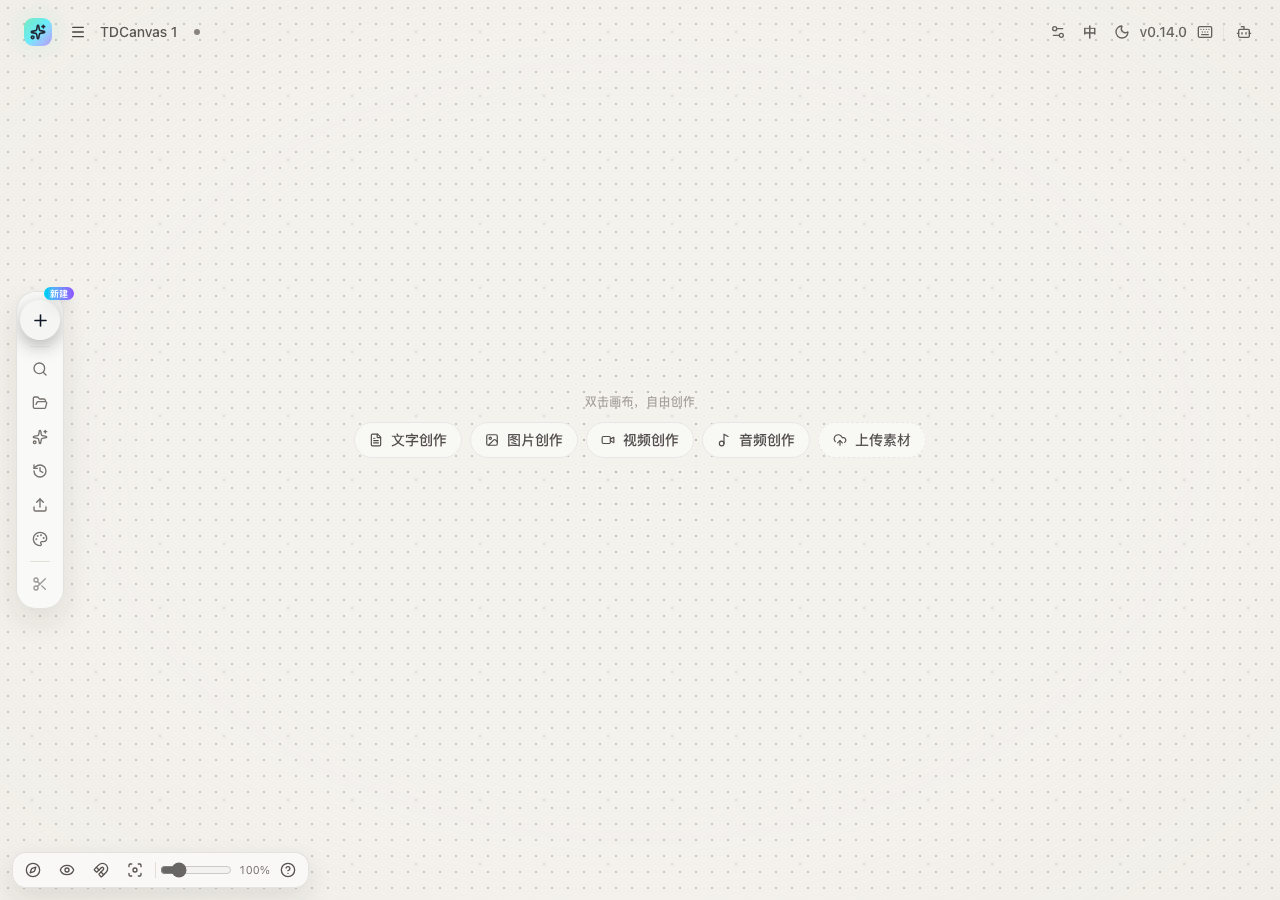
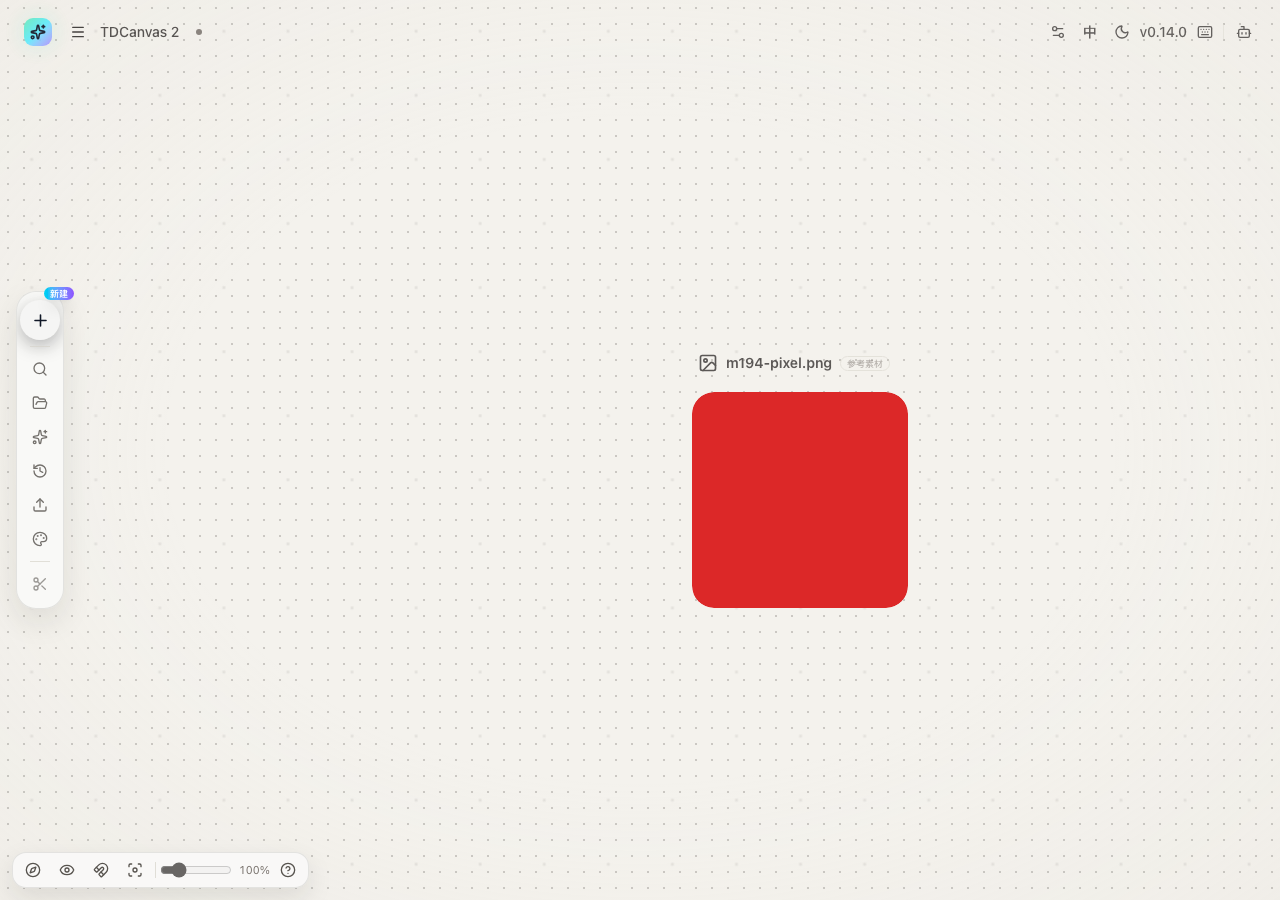
docs(user-manual): Batch 224 — 把最后 19 张 alt 核完，112 张全部核过
核完剩余 19 张纯描述型 alt。至此 112 张 alt 全部核过一遍
（M1-M209 的 84 张 + M223 的 9 张 + 本批 19 张）。
结果：15 张全对，4 张抓到错，否证 3 次（第 149、150、151 次）。

三条新 R

R73（wording）靠「同一份清单自己跟自己矛盾」撞出来的大小写。
09-generate-images-panel 的 step 与 verified_locator 把参数行记成大写
参数 1K/2K，而同一份 manifest 里同题材的另外两张写的是小写。
不能靠看图定案：参数行放大到 20 倍仍分辨不出 k 与 K，那面板在 1280x720
里只占约 350px 宽，源像素就这么多。放大后再读解决的是看得清，解决不了
分辨率不够。决定性读数来自源码 aitudou-aspect-dimensions.ts:14。
★ 本批最值钱的一条纪律：这个串在另一个地方是大写、而且是对的——本地
「放大」的目标长边档位就是 1K。全手册 13 次出现里只有 3 次是同一事实且
都错，另 3 次是 upscale 那个事实、大写是对的、一处没动。按 grep 到就全改
做，会把 3 处本来正确的地方改错。所以 needle 取带「参数」二字的更长形态。

R74（wording）图注描述了图上根本没有的东西。
organize-canvas.md:177 的图注写了图上并不存在的节点，而那张图是空白
画布——只有五个创作芯片，一个节点也没有。
★ 撞出来的是同一张图内部打架：这张图自己的 alt 与 verified_locator 都写
的是「五个创作芯片」，只有正文图注说有节点。如果只核 alt，这一条会一路
核成「全对」——alt 本身确实是对的。
按既定原则走重拍：先普查 5 张画布布局，凡 2 个以上节点的全堆叠重叠，只有
TDCanvas 2 单节点、零重叠，不动任何节点数据就拍到干净构图。已核验主题与
节点坐标逐字还原。
★ 顺带补上一份此前完全缺失的证据：原文「节点与面板转白底深字」面板侧有图、
节点侧一直没有图。这次实测到节点文字色 rgb(41, 37, 36)、内层描边
rgb(214, 211, 202)，两端至此都有据。

R75（wording）把真功能错说成面板里的开关项。
20-reference.md:291 的图注把面板上没有的一项写了进去、把真有的另一项漏了。
三条独立读数：图上只有四组；i18n 全库「辅助线」0 次命中；姊妹条目（浅色主题
下的同一面板）同样四组。
★ 关键在对齐辅助线是真功能（拖动时出现、阈值约 7 屏幕像素），错的只是把它
当成面板里能点的开关。照字面修成「面板没有辅助线功能」，就是把一条真功能
写没了，比原错更坏，所以只改图注与设置表下的说明。

三次否证

第 149 次：图上下拉截断为 Doubao seed audi…，一度以为 alt 写全称是吹牛——
源码 aitudou-models.ts:260 的 id 就是 doubao-seed-audio-1.0，合规。
第 150 次：把小地图里那块绿色误读成视口框，放大 4 倍后才看清视口框确是白色
描边，清单正确。
第 151 次（★ 本批最典型的先怀疑判据）：侧边面板清单记着 278x600，量到外层
aside 是 280x652，一度判清单错。实测把清单判成对的：往上第 2 层是
[…]

diff --git a/docs/user-manual/tdcanvas-canvas/scripts/check-retractions.py b/docs/user-manual/tdcanvas-canvas/scripts/check-retractions.py
@@ -920,6 +920,78 @@ RETRACTIONS: list[dict[str, str]] = [
                      #   **新内容也要守同一条**，所以照 R70 的先例登记豁免，而不是改措辞绕开。
                      "task-inventory.yml#`20-nav-bilingual.png`"],
     },
+    # ★ M224：靠**同一份清单里两处写法不一致**撞出来的，不是靠怀疑。
+    #   而修它之前必须先答一个问题：这个串是不是另一个事实？
+    {
+        "id": "R73",
+        "kind": "wording",
+        "wrong": "参数 1K/2K",
+        "why": "**图生图「参数」行的分辨率档位，界面是小写的 1k/2k。**\n"
+               "`09-generate-images-panel` 的 step 与 verified_locator 两处都写成了大写 K，"
+               "而**同一份清单里同题材的另外两张**（`09-generate-images-panel-full`、"
+               "`30-concepts-reference-mention-inserted`）写的是小写——**是这两处自相矛盾撞出来的**。\n"
+               "**为什么不能靠看图定案**：把参数行裁出来放大到 20 倍**仍然分辨不出 k 与 K**，"
+               "因为那张图的面板在 1280x720 画布里只占约 350px 宽，**源像素就这么多、再放大也变不出来**。"
+               "★ 所以「放大后再读」那条纪律解决的是「看得清」，**它解决不了「分辨率不够」**。\n"
+               "**决定性读数来自源码**：`web/src/components/canvas/aitudou-aspect-dimensions.ts:14` "
+               "是 `AITUDOU_SEEDREAM_RESOLUTIONS = [\"1k\", \"2k\"]`。\n"
+               "★ **同一个串在另一个地方是大写、而且是对的**：本地「放大」的目标长边档位在 "
+               "`canvas-node-upscale-dialog.tsx:14` 与 `services/api/image.ts:120,226` 里就是 `\"1K\"`。"
+               "**所以 needle 取「参数 1K/2K」而不是「1K/2K」**——后者会连带命中 upscale 那三处"
+               "**本来正确**的大写，门禁会在正确的地方报红，"
+               "**一个把正确内容判成错的 needle 比没有 needle 更坏**。\n"
+               "**M224 已把同一事实的 3 处全改成小写**（manifest 的 step 与 verified_locator、"
+               "task-inventory 的 review_note），**upscale 那 3 处大写一处没动**。",
+        "fixed_in": "M224",
+        "allow_in": ["screenshots/manifest.yml#M224-R73"],
+    },
+    # ★ M224：靠**同一份清单里两处写法不一致**撞出来的，不是靠怀疑。
+    {
+        "id": "R74",
+        "kind": "wording",
+        "wrong": "白色节点与面板",
+        "why": "**`organize-canvas.md` 里浅色主题那张图的图注，描述了图上根本没有的东西。**\n"
+               "原图注写「浅色主题下的画布，浅米色点阵背景、白色节点与面板……」，"
+               "但那张图是**空白画布**——只有五个创作芯片，**一个节点都没有**。\n"
+               "★ **撞出来的是同一张图自己跟自己矛盾**：同一份 manifest 里这张图的 alt 与 "
+               "verified_locator 都写着「双击画布自由创作 与五个创作芯片」，"
+               "**只有正文图注说有节点**。两处对不上，才去把图打开看。\n"
+               "★ **按既定原则走的是重拍而不是改措辞**（证据与主张对不上时优先重拍）。"
+               "重拍前先普查了 5 张画布的节点布局：**凡 2 个以上节点的全堆叠重叠**"
+               "（TDCanvas 3/4/5 各重叠 1 对、TDCanvas 1 重叠 3 对），"
+               "**只有 TDCanvas 2 是单节点、零重叠**，不用改动任何节点数据就能拍出干净构图。\n"
+               "★ **顺带补上一份此前完全缺失的证据**：原文「节点与面板转白底深字」这句话，"
+               "**面板侧有图、节点侧一直没有图**。这次实测到节点文字色 `rgb(41, 37, 36)`、"
+               "节点内层描边 `rgb(214, 211, 202)`，**浅底深字这句话至此两端都有据**。\n"
+               "★ **过程中踩了两个坑，都记在 SOURCE_OBSERVATIONS F28-F31**："
+               "① 两个节点中心完全重合时，**按 id 选中的目标不等于鼠标实际点到的那个**，"
+               "拖错了节点；② 浅色判据要查根节点 `tdcanvas-light`，**不是查 `<html>` 的 class**。\n"
+               "★ 拍摄后已核验主题与节点坐标**逐字还原**。",
+        "fixed_in": "M224",
+        "allow_in": ["screenshots/manifest.yml#M224-R74"],
+    },
+    # ★ M224：把一个**真功能**错说成**面板里的一个开关项**，比「漏写一项」更坏。
+    {
+        "id": "R75",
+        "kind": "wording",
+        "wrong": "网格与对齐辅助线",
+        "why": "**`20-reference.md` 那张外观面板的图注，把面板没有的一项写了进去、"
+               "把面板真有的另一项漏在外面。**\n"
+               "原图注写「画布外观面板：输入模式、主题、网格与对齐辅助线」，"
+               "但面板上**只有四组**：画布输入模式 / 主题模式 / 网格样式 / 图片信息——"
+               "**没有对齐辅助线，反而漏了确实存在的图片信息**。\n"
+               "三条独立读数：① 图上数得出来只有四组；② i18n 全库 `辅助线` **0 次命中**；"
+               "③ 姊妹条目 `04-organize-canvas-appearance-light.png`（浅色主题下的同一面板）同样只有四组。\n"
+               "★ **关键区分——这件事很容易改错方向**：对齐辅助线**是真功能**"
+               "（拖动时出现、阈值约 7 屏幕像素，见 `organize-canvas.md:189`），"
+               "**错的只是把它当成面板里可以点的开关**。"
+               "如果照字面去「修」成「面板没有辅助线功能」，就是把一条真功能写没了——"
+               "**比原错更坏**。\n"
+               "★ 顺带在设置表下面补了一句，明确后两行（网格吸附、对齐辅助线）**都不在面板上**，"
+               "免得读者照着图注去面板里找。",
+        "fixed_in": "M224",
+        "allow_in": ["screenshots/manifest.yml#M224-R75"],
+    },
 ]
 
 

diff --git a/docs/user-manual/tdcanvas-canvas/AUDIT.md b/docs/user-manual/tdcanvas-canvas/AUDIT.md
@@ -779,3 +779,13 @@
 | **Major(工具自身)** | **★ `viewport` 是一词三义的字段，而二十三道门禁没有一道核对它与图片实物** | 全库普查：逐个读 PNG 头 IHDR 拿真实宽高，与 manifest 里 `viewport` 开头的 `NxM` 对照，**112 张里 26 张对不上** | **但 26 张不是 26 个错**——这个字段混着三种含义：① 浏览器视口；② **裁剪区**（`16-use-agent-skills` 实物 454×950 而登记是视口 `1440x950`）；③ **设备像素**（`30-concepts-reference-unused` 实物 2880×1800 = 视口 2 倍）。**只有 6 条在字段里自述了「裁剪区 / deviceScaleFactor」并精确对账**，另 19 条既没对账也没说明它是哪一种。★ **缺口本身比这 26 条更值得记**：`viewport` 是**唯一**能判断「这张图是整屏还是裁剪件、是不是高 DPI」的字段，可 `check-render.py` 只查 img 异常、`check-inventory-freshness.py` 只数条目数——**一个被所有人依赖的字段，没有任何机制保证它没写错**。**下一步（未做）**：做成第 24 道门禁，判据取「字段里若给出可算断言则必须与实物对账」，**要窄到能在现有 112 条上全过** |
 | **第 148 次否证** | **否掉「alt 里的『鼠标锚』是在声称图上看得见的指针」** | `navigate-canvas.md:59` 的图注写「滚轮缩放（54%→85%，鼠标锚）」，**而图上找不到任何鼠标指针**——第一反应是「alt 声称了图上没有的东西」，按 R66 该判错 | **放大 6 倍后才看清**：那个白色小圆是**空心圆环 + 一根接上去的白色连线**，是**连接端口**（指针是实心箭头）——**所以 alt 根本没声称图上有指针**。**决定性依据在账本里**：`SOURCE_OBSERVATIONS.md:48` 早就立过约定「**wheel 永远缩放（5%–500%，鼠标锚）；缩放滑杆 5–500%（视口中心锚）**」，「鼠标锚」说的是**缩放锚点的选取方式**。★ **判据补一句**：读 alt 先分清「**图上看得见的东西**」与「**这张图演示的机制**」——本批 9 张全对的 alt 里有 3 处带「鼠标」字样，全是描述交互状态而非可见光标；**同页 `03-connect-node-ports` 写「这张图鼠标不在节点上」，同样是靠「工具条没挂载」这个可见反证推出来的** |
 | **Major(流程)** | **★ 会话摘要里的图名有 9 个是编的——而「已核 84 张」这个进度数就建在它上面** | 规划 M223 时，我按摘要里记的「M221 已核 6 张 + M222 已核 4 张」去减待核清单，**10 个名字里只有 1 个能对上**。逐个查证：这 9 个名字**在 manifest、磁盘、正文里各 0 处**，**根本不存在** | **三条读数把它钉死**：① `ls screenshots/` 列不出这些文件；② `grep -c <名字> screenshots/manifest.yml` 全为 0；③ 正文 `*.md` 里也 0 处。**而数目（28 张 / 34 遍）是对的**——错的只是名字，**因为我是照着「六张资产弹窗相关的图」这种描述反推文件名，而不是从清单里查**。★ **改法**：回到 `PROGRESS.md` 的 M221/M222 段**读原表**，把真名单抄出来（`02-navigate-canvas-top-menu`、`90-troubleshooting-cover-placeholder` 等），再用它做集合运算。★ **可复用的判据**：**二手的进度账本不可信，进度数字必须能对着三方（磁盘 / 清单 / 正文）复算**——`grep 不到 ≠ 不存在` 的反面在这里成立：**`grep 得到` 也不等于它存在**，**编出来的名字一样能通过一次 grep**，只有**逐个查存在性**才能拆穿 |
+| **Major(手册自身)** | **★ 浅色主题那张图的图注，描述了图上根本没有的东西——而且这张图自己跟自己就矛盾** | `organize-canvas.md:177` 的图注写「浅米色点阵背景、**白色节点与面板**」，但 `01-create-canvas-project-light-canvas.png` 是**空白画布**：只有五个创作芯片，一个节点也没有 | ★ **撞出来的是同一张图内部打架**：同一份 manifest 里这张图的 `alt` 与 `verified_locator` 都写着「双击画布自由创作 与五个创作芯片」，**只有正文图注说有节点**。**两处对不上才去把图打开——如果只核 alt，这一条会一路核成「全对」**（alt 本身确实是对的）。★ 按既定原则走重拍：先普查 5 张画布布局，**凡 2 个以上节点的全堆叠重叠**（3/4/5 各 1 对、1 有 3 对），**只有 TDCanvas 2 单节点零重叠**，不动任何节点数据就拍到干净构图。**R74** |
+| **Major(证据升级)** | **「节点转白底深字」这句话，节点侧一直没有图——这次补上了实测读数** | 原文只说「节点与面板转白底深字」，但面板侧有 `14-manage-assets-light` 与 `04-organize-canvas-appearance-light` 佐证，**节点侧一张图都没有** | ★ 重拍时顺带实测：**节点文字色 `rgb(41, 37, 36)`、节点内层描边 `rgb(214, 211, 202)`**（DPR=1）。**浅底深字这句话至此两端都有据**，正文已把这组读数补进 `organize-canvas.md:179` |
+| **Major(手册自身)** | **把一个**真功能**错说成**面板里的一个开关项**，比「漏写一项」更容易改错方向** | `20-reference.md:291` 图注写「画布外观面板：输入模式、主题、网格与对齐辅助线」，面板上**没有辅助线**、**漏了确实存在的图片信息** | 三条独立读数：图上只有四组；i18n 全库 `辅助线` **0 次命中**；姊妹条目 `04-organize-canvas-appearance-light` 同样四组。★ **关键是对齐辅助线是真功能**（拖动出现、阈值 7 屏幕像素）——**照字面「修」成「面板没有辅助线功能」就把真功能写没了，比原错更坏**，所以只改图注与设置表下的说明。**R75** |
+| **第 149 次否证** | **否掉「正文写全称是错」** | `09-generate-images-audio-panel` 图上下拉被截断成 `Doubao seed audi…`，而 alt 写全称「Doubao seed audio 1.0」，一度被当成图注吹牛 | 源码 `aitudou-models.ts:260` 的 id 就是 `doubao-seed-audio-1.0`、`aitudou-pricing.ts:412` 连措辞都是「约 ¥0.004/秒」，正文两张表也写全称，**合规** |
+| **第 150 次否证** | **否掉「小地图上的绿色块是视口框」** | `02-navigate-canvas-minimap-nav` 的 alt 写白色视口框，而小地图里那块是绿的（实测平均 RGB 44,151,112） | 放大 4 倍后看清**视口框确是白色描边**（右上 L 形白框），绿色那块是节点。**清单正确** |
+| **第 151 次否证** | **否掉「`verified_locator` 里的 `278x600` 写错了」** | 从搜索框往上量到的外层是 `aside.td-canvas-side-panel` **280x652**，与登记值 278x600 对不上，一度判清单错 | ★ **从搜索框往上第 2 层是 `div.flex.h-full.flex-col`，x=57 / y=107 / 278x600，DPR=1，与登记值逐位相同**；而清单自己的 `verified_locator` 末尾就写着 `面板容器 class=flex h-full flex-col`——**答案一直写在清单里，是我没按那个 class 定位才量错了对象**。**记下来是因为：尺寸类读数的对错取决于「量的是不是同一个东西」，脚本保证不了这一点** |
+| **Minor(工具自身)** | **★ 判浅色主题的判据查错了元素，害得脚本在已经切成浅色时判定失败并中止** | 重拍脚本按 `<html>` 的 class 含不含 `light` 判主题 | 实测：**切到浅色后 `<html>` 的 class 是 `font-sans`，不含任何 light/dark 标记**；`light` 挂在根节点 `.ant-app` 的 `tdcanvas-light` 上。**`dark` 挂 `<html>`、`light` 挂根节点——两个标记不在同一个元素上，这不是偶发**。判浅色要查根节点。**F29** |
+| **Minor(探针)** | **★ 按 id 选中的节点，不等于鼠标实际点到的那一个；而「拖回去」这一步静默空转** | 重拍脚本按 `[data-node-id]` 取包围盒中心 `(800, 500)` 拖拽 | ★ 被拖动的是**音频节点**——**两个节点的包围盒中心完全重合在同一点**，坐标选中的和鼠标点到的是同一坐标上的最上层那个。图生图节点原地没动，于是拖回逻辑算出 `(0, 0)`，**无声空转，数据已被改**。修法：拖后回读布局断言「实际移动的 id == 想要的 id」；拖回按**实测**位移的相反数；逐坐标比对；还原脚本独立可重入。**F28** |
+| **Minor(流程)** | **★ 还原写在流程末尾，中途 `exit(1)` 就把浅色主题留在复用 profile 里了** | 重拍脚本的还原代码排在最后 | 改成 `finally` 后任何提前退出都先还原。本批靠这条把 v2 遗留的浅色主题收了回来（`theme_store`、`font-sans dark`、`tdcanvas-dark` 三处读数逐字对上）。★ 顺带记住第二条：**计划位移 ≠ 实测位移**，拖拽会被吸附与取整改写，还原量必须取实测值的相反数。**F31** |
+| **Minor(工具自身)** | **★ 写进 manifest 的同一条 `m224_note` 落了两遍，门禁当场点名** | 补 note 的脚本按 sha256 行插入，而这条的 note 早前已经落过一份 | `check-retractions.py` 报 `R73 的 screenshots/manifest.yml#M224-R73 命中 2 行，偷偷放宽`——**YAML 解析时后者覆盖前者、文本层却是两行**，只有门禁这种按行匹配的检查才看得见。删掉重复后归零 |

diff --git a/docs/user-manual/tdcanvas-canvas/10-tasks/organize-canvas.md b/docs/user-manual/tdcanvas-canvas/10-tasks/organize-canvas.md
@@ -174,9 +174,9 @@
 
 > **想自己复核这条？打开控制台看一个键就够了**。2026-10-01 实测：点顶栏主题按钮后，`localStorage` 会**新增一个键** `tdcanvas:theme_store`，值形如 `{"state":{"theme":"light"},"version":0}`（`dark` 同理）。**关掉整个浏览器再打开仍然是浅色**——实测确认。顺带记下切换时 DOM 上的两个标记：`<html>` 的 `class` 从 `font-sans dark` 变成 `font-sans`，页面根节点的 `class` 从 `ant-app tdcanvas-dark` 变成 `ant-app tdcanvas-light`；顶栏按钮的可访问名会同步从「切换到浅色主题」翻成「切换到深色主题」。**你不需要相信"全局"这个说法——去 `localStorage` 里看一眼 `tdcanvas:theme_store` 就能确认它确实落在了全局存储上。**
 
-![浅色主题下的画布，浅米色点阵背景、白色节点与面板，左下角缩放条与左侧 Dock 均为浅色](../screenshots/01-create-canvas-project-light-canvas.png)
+![浅色主题下的 TDCanvas 2 画布，浅米色点阵背景，中央一个图片节点（白色标题栏上是深色的 m194-pixel.png 与参考素材），左下角缩放条与左侧 Dock 均为浅色](../screenshots/01-create-canvas-project-light-canvas.png)
 
-浅色主题不是把深色反相，而是一套完整的独立配色：画布底色是**浅米色**（`oklch(1 0 0)` 的近白），节点与面板转白底深字，画布背景的**点阵变成浅棕点**。资产页的整页也跟着换，工具栏、搜索框、筛选按钮与资产卡片在浅色下都正常：
+浅色主题不是把深色反相，而是一套完整的独立配色：画布底色是**浅米色**（`oklch(1 0 0)` 的近白），节点与面板转白底深字（2026-10-04 实测节点文字色 `rgb(41, 37, 36)`、节点内层描边 `rgb(214, 211, 202)`），画布背景的**点阵变成浅棕点**。资产页的整页也跟着换，工具栏、搜索框、筛选按钮与资产卡片在浅色下都正常：
 
 ![浅色主题下的我的资产页面（计数 2/2），搜索框与筛选按钮为浅色底深字，工具栏四个按钮轮廓清晰，下方并排两张带编辑、复制、删除的资产卡片](../screenshots/14-manage-assets-light.png)
 
